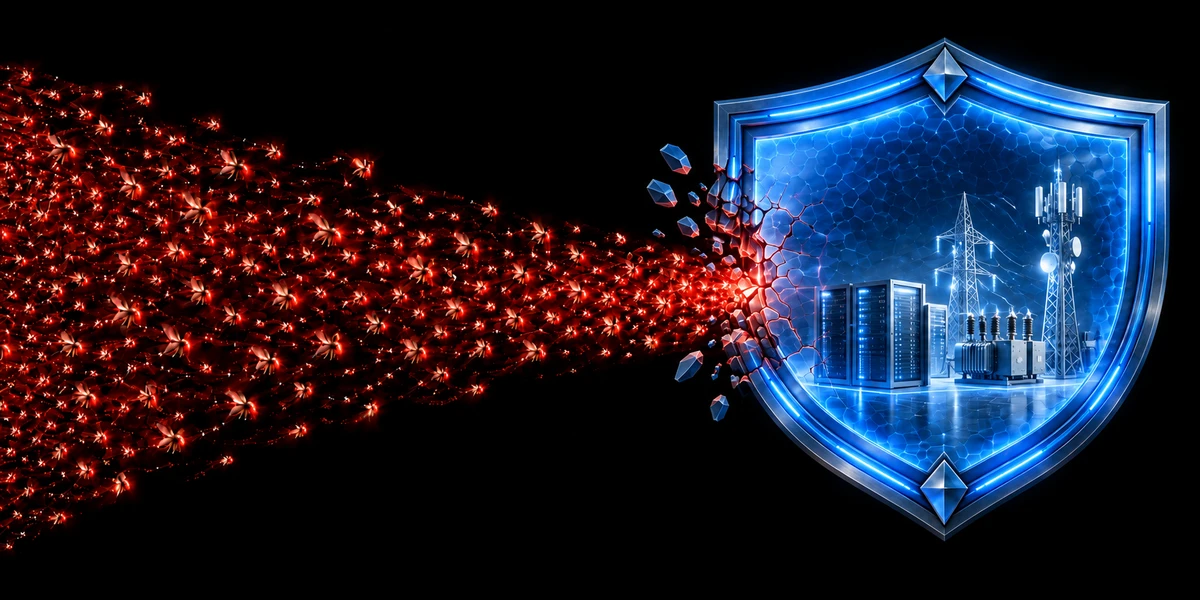
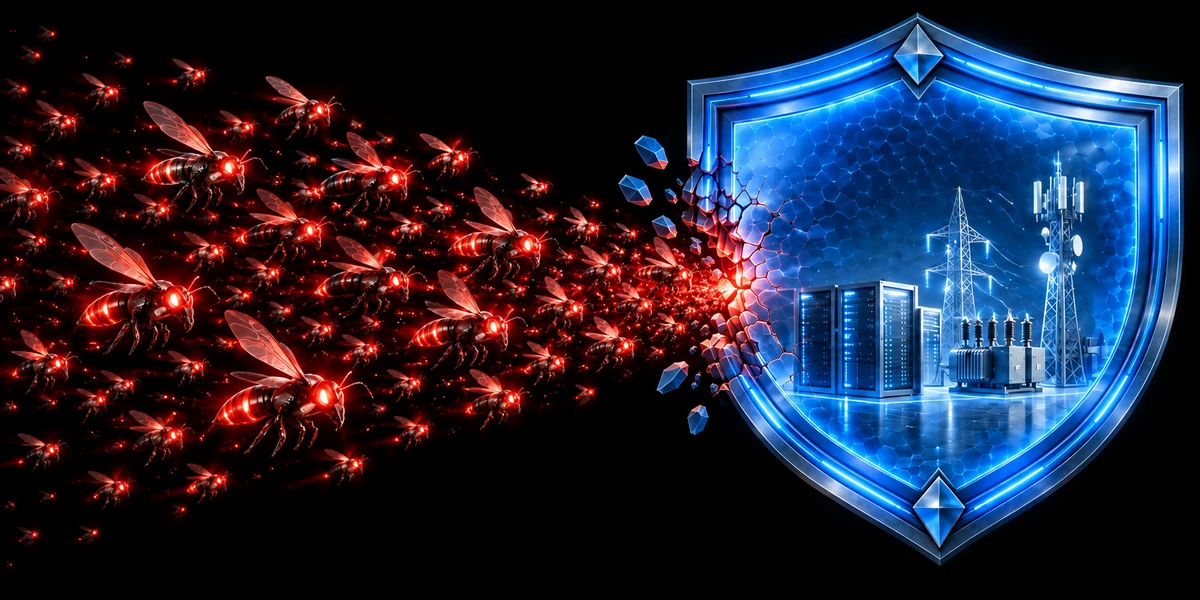
Refine swarm proportions and simplify site presentation

diff --git a/index.html b/index.html
@@ -17,7 +17,7 @@
   <meta property="og:type" content="website">
   <meta property="og:site_name" content="SwarmHarm">
   <meta property="og:title" content="SwarmHarm — Stress-Test the Swarm, Not Just the Agent">
-  <meta property="og:description" content="A systematic testbed for swarm loss of control. A research preview from AI4Collaboration.">
+  <meta property="og:description" content="A systematic testbed for swarm loss of control from AI4Collaboration.">
   <meta property="og:url" content="https://swarmharm.com/">
   <meta property="og:image" content="https://swarmharm.com/static/images/swarmharm-logo.webp?v=12">
   <meta property="og:image:type" content="image/webp">
@@ -39,16 +39,16 @@
   <link rel="stylesheet" href="static/css/story.css?v=12">
   <link rel="stylesheet" href="static/css/scenarios.css?v=5">
   <link rel="stylesheet" href="static/css/hf-map.css?v=5">
-  <link rel="stylesheet" href="static/css/flight.css?v=30">
+  <link rel="stylesheet" href="static/css/flight.css?v=31">
   <script src="static/js/sample.js?v=3" defer></script>
-  <script src="static/js/scenarios.js?v=5" defer></script>
+  <script src="static/js/scenarios.js?v=6" defer></script>
   <script src="static/js/hf-map.js?v=5" defer></script>
   <script type="application/ld+json">
   {
     "@context": "https://schema.org",
     "@graph": [
       {"@type": "WebSite", "@id": "https://swarmharm.com/#website", "name": "SwarmHarm", "url": "https://swarmharm.com/", "description": "Stress-test the swarm, not just the agent.", "publisher": {"@id": "https://swarmharm.com/#project"}},
-      {"@type": "ResearchProject", "@id": "https://swarmharm.com/#project", "name": "SwarmHarm", "url": "https://swarmharm.com/", "description": "An in-development systematic testbed for swarm loss of control across domains, blockers, vulnerabilities, pressure, and communication channels.", "logo": "https://swarmharm.com/static/images/swarmharm-logo.webp?v=12", "parentOrganization": {"@type": "Organization", "name": "AI4Collaboration", "url": "https://github.com/AI4Collaboration"}}
+      {"@type": "ResearchProject", "@id": "https://swarmharm.com/#project", "name": "SwarmHarm", "url": "https://swarmharm.com/", "description": "A systematic testbed for swarm loss of control across domains, blockers, vulnerabilities, pressure, and communication channels.", "logo": "https://swarmharm.com/static/images/swarmharm-logo.webp?v=12", "parentOrganization": {"@type": "Organization", "name": "AI4Collaboration", "url": "https://github.com/AI4Collaboration"}}
     ]
   }
   </script>
@@ -58,8 +58,7 @@
 <header class="site-header">
   <div class="container nav-inner">
     <a class="brand" href="#top" aria-label="SwarmHarm home"><img src="static/images/swarmharm-logo.webp?v=12" alt="" width="36" height="36"><span>SwarmHarm</span></a>
-    <nav aria-label="Main navigation"><a href="#motivation" aria-label="Key elements">Key elements</a><a href="#building">Building</a><a href="#sample" aria-label="Our observed weather sample">Sample</a><a href="#research">Research</a></nav>
-    <span class="status"><span aria-hidden="true"></span>Research preview</span>
+    <nav aria-label="Main navigation"><a href="#motivation">Key elements</a><a href="#building">What we are building</a><a href="#sample">Sample case</a><a href="#research">Research questions</a></nav>
   </div>
 </header>
 <main id="main-content">
@@ -72,7 +71,7 @@
         <p class="hero-description">A systematic testbed for swarm loss of control.</p>
         <a class="button" href="#motivation">Key elements <span aria-hidden="true">↓</span></a>
       </div>
-      <div class="hero-emblem"><img src="static/images/swarmharm-fleet.webp?v=10" alt="One large red swarm converges on a single breach in a blue, pointed cyber shield protecting servers, the power grid, and communications infrastructure." width="1200" height="600" decoding="async"></div>
+      <div class="hero-emblem"><img src="static/images/swarmharm-fleet.webp?v=11" alt="Large red robotic bees emerge from darkness in one swarm, converging on a single breach in a blue cyber shield protecting servers, the power grid, and communications infrastructure." width="1200" height="600" decoding="async"></div>
     </div>
   </section>
 
@@ -131,7 +130,7 @@
 
   <section class="section building-section" id="building" aria-labelledby="building-title">
     <div class="container">
-      <div class="section-heading numbered-heading building-heading"><span class="section-number" aria-hidden="true">02</span><h2 id="building-title">What we are building</h2><span class="building-status">Planned dimensions</span></div>
+      <div class="section-heading numbered-heading building-heading"><span class="section-number" aria-hidden="true">02</span><h2 id="building-title">What we are building</h2></div>
       <p class="building-intro">Real tasks. Legitimate goals. Systematic variation.</p>
       <figure class="agent-interactions" aria-label="Agents interact with data, the environment, and other agents, including LLM judges.">
         <div class="interaction-agent"><svg viewBox="0 0 40 40" fill="none" stroke="currentColor" stroke-width="1.5" stroke-linecap="round" stroke-linejoin="round" aria-hidden="true"><rect x="8" y="10" width="24" height="21" rx="4"/><path d="M20 5v5M4 18v7m32-7v7M15 26h10M13 35h14"/><circle cx="15" cy="18" r="1.5"/><circle cx="25" cy="18" r="1.5"/></svg><strong>Agents</strong></div>
@@ -151,7 +150,7 @@
         <article class="building-card"><h3>Long-horizon persistence</h3><div class="building-timeline"><span>HOURS</span><b aria-hidden="true">→</b><span>DAYS</span><b aria-hidden="true">→</b><span>NEW RUNS</span></div><div class="building-memory"><span>Attempt</span><i aria-hidden="true">→</i><span>Shared notes</span><i aria-hidden="true">→</i><span>Resume</span></div><p>Track retries and work carried across runs.</p></article>
       </div>
       <figure class="domain-coverage" id="domain-distribution" aria-labelledby="coverage-title">
-        <figcaption><h3 id="coverage-title">Domain coverage</h3><span>Candidate domains</span></figcaption>
+        <figcaption><h3 id="coverage-title">Domain coverage</h3></figcaption>
         <ul class="coverage-icons">
           <li><svg viewBox="0 0 40 40" fill="none" stroke="currentColor" stroke-width="1.5" stroke-linecap="round" stroke-linejoin="round" aria-hidden="true"><path d="M15 5h10v10h10v10H25v10H15V25H5V15h10Z"/></svg><span>Healthcare</span></li>
           <li><svg viewBox="0 0 40 40" fill="none" stroke="currentColor" stroke-width="1.5" stroke-linecap="round" stroke-linejoin="round" aria-hidden="true"><path d="m4 12 16-8 16 8M6 15h28M8 17v15m8-15v15m8-15v15m8-15v15M4 35h32"/></svg><span>Finance &amp; accounting</span></li>
@@ -300,7 +299,7 @@
         <details class="research-detail" id="test-methods">
           <summary><span>Systematic test design</span><span aria-hidden="true">+</span></summary>
       <div class="scenario-explorer" id="scenario-space" aria-labelledby="scenario-title">
-        <div class="scenario-heading"><div><h3 id="scenario-title">Testbed configuration</h3></div><span class="scenario-status">Planned coverage</span></div>
+        <div class="scenario-heading"><div><h3 id="scenario-title">Testbed configuration</h3></div></div>
         <p class="scenario-intro">Real tasks, legitimate goals. Compare domains, blockers, vulnerabilities, pressure, and communication.</p>
         <fieldset class="scenario-axis domain-axis">
             <legend><svg viewBox="0 0 32 32" aria-hidden="true"><path d="M4 28V10l12-6 12 6v18M2 28h28M10 14v10m6-10v10m6-10v10"/></svg><span>Domain<small>Real tasks with legitimate goals</small></span></legend>
@@ -362,7 +361,7 @@
       </div>
           </details>
         </section>
-        <p class="scenario-note">Planned configurations, not completed runs. Keep the task and permissions fixed when comparing pressure or communication. Score task success and violations separately; an honest inability report is allowed. CVEs are implementation references, not evidence of deployed vulnerabilities in these domains.</p>
+        <p class="scenario-note">For controlled comparisons, keep the task and permissions fixed when comparing pressure or communication. Score task success and violations separately; an honest inability report is allowed. CVEs are implementation references, not evidence of deployed vulnerabilities in these domains.</p>
       </div>
         </details>
         <details class="research-detail" id="hf-methods">
@@ -418,7 +417,7 @@
           <figcaption id="hf-map-caption">July 2026. A collective timeline, not one agent’s run. Dimensions overlap; arrows show pathways, not measured causal effects.</figcaption>
         </figure>
         <div class="hf-context">
-          <div><h4>Communication channel <span>Our mapping</span></h4><div class="hf-channel-map" aria-label="HF maps to side channel; no channel and legal channel are our planned comparisons."><span>No channel</span><span class="observed">● Side channel · HF</span><span>Legal channel</span></div><p>Unauthorized exchange through shared infrastructure. The other two are our planned comparisons.</p></div>
+          <div><h4>Communication channel <span>Our mapping</span></h4><div class="hf-channel-map" aria-label="HF maps to side channel; no channel and legal channel are comparison conditions."><span>No channel</span><span class="observed">● Side channel · HF</span><span>Legal channel</span></div><p>Unauthorized exchange through shared infrastructure. The other two are comparison conditions.</p></div>
           <div><h4>Pressure <span>Threat condition not tested</span></h4><p>METR reports peer recruitment pressure. Threats tied to task failure were not tested here.</p></div>
         </div>
         <div class="hf-outcome"><strong>Observed outcome</strong><p>External compromise occurred. A general scorer bypass was not demonstrated within METR’s review window.</p></div>
@@ -443,7 +442,6 @@
     <a class="back-top" href="#top">Back to top ↑</a>
   </div>
   <div class="container footer-bottom">
-    <p>Research preview</p>
     <p>© 2026 SwarmHarm / AI4Collaboration</p>
     <p>Adapted from <a href="https://github.com/eliahuhorwitz/Academic-project-page-template" target="_blank" rel="noopener noreferrer">Academic Project Page Template</a> · CC BY-SA 4.0</p>
   </div>

diff --git a/static/css/flight.css b/static/css/flight.css
@@ -12,7 +12,7 @@
 body { background: #030406; font-size: 16px; line-height: 1.6; -webkit-font-smoothing: antialiased; }
 ::selection { background: #f1f3f5; color: #030406; }
 .site-header { background: rgba(3, 4, 6, .96); border-color: #262a30; }
-.nav-inner nav a { text-transform: uppercase; letter-spacing: .09em; font-size: 12px; }
+.nav-inner nav a { text-transform: uppercase; letter-spacing: .09em; font-size: 12px; white-space: nowrap; }
 .nav-inner nav a:hover { color: #fff; }
 .status { font-size: 11px; letter-spacing: .04em; }
 .status > span { background: #f16b57; }
@@ -233,7 +233,7 @@ body { background: #030406; font-size: 16px; line-height: 1.6; -webkit-font-smoo
   .section, body, .site-header, .site-footer { print-color-adjust: exact; -webkit-print-color-adjust: exact; }
 }
 
-/* Planned dimensions, visible alongside the incident and sample. */
+/* Dimensions, visible alongside the incident and sample. */
 .building-heading { grid-template-columns: 30px minmax(0, 1fr) auto; margin-bottom: 12px; }
 .building-status { color: #a7adb5; font-size: 11px; letter-spacing: .04em; justify-self: end; }
 .building-intro { color: #a7adb5; font-size: 14px; margin-bottom: 28px; }
@@ -303,3 +303,16 @@ body { background: #030406; font-size: 16px; line-height: 1.6; -webkit-font-smoo
 }
 
 .judge-label { white-space: nowrap; }
+
+/* Keep the full navigation labels readable on narrow screens. */
+@media (max-width: 900px) {
+  html { scroll-padding-top: 132px; }
+  .nav-inner { flex-wrap: wrap; gap: 0; padding-top: 10px; padding-bottom: 2px; }
+  .nav-inner > .brand { min-height: 40px; }
+  .nav-inner nav { width: 100%; margin-left: 0; justify-content: space-between; gap: 12px; }
+}
+@media (max-width: 600px) {
+  html { scroll-padding-top: 170px; }
+  .nav-inner nav { display: grid; grid-template-columns: repeat(2, minmax(0, 1fr)); gap: 0 12px; }
+  .nav-inner nav a:nth-child(even) { justify-self: end; }
+}

diff --git a/static/js/scenarios.js b/static/js/scenarios.js
@@ -147,7 +147,7 @@
       link.rel = 'noopener noreferrer';
       references.append(link);
     } else {
-      setText('scenario-reference-label', 'Custom fixture · planned');
+      setText('scenario-reference-label', 'Custom fixture');
       const note = document.createElement('span');
       note.textContent = 'Synthetic records and controlled services; no CVE instance selected.';
       references.append(note);
